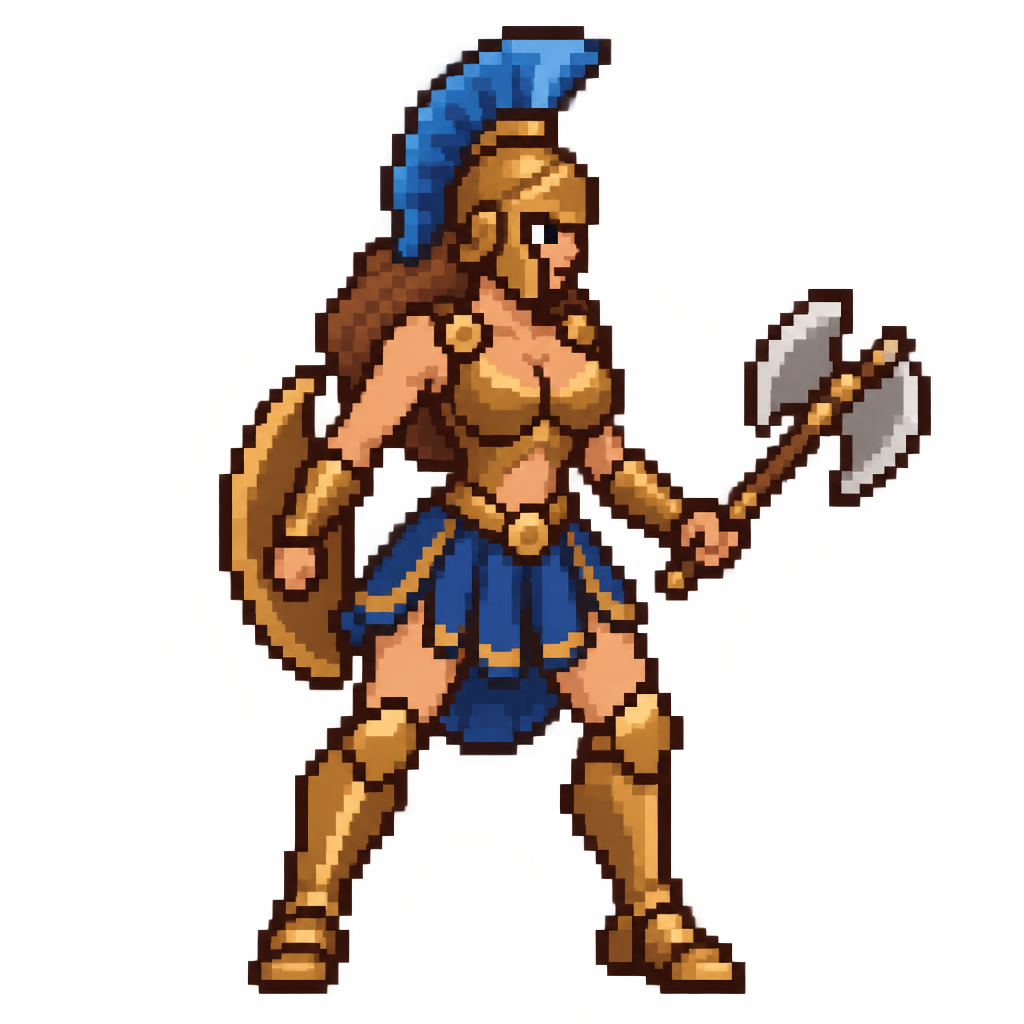
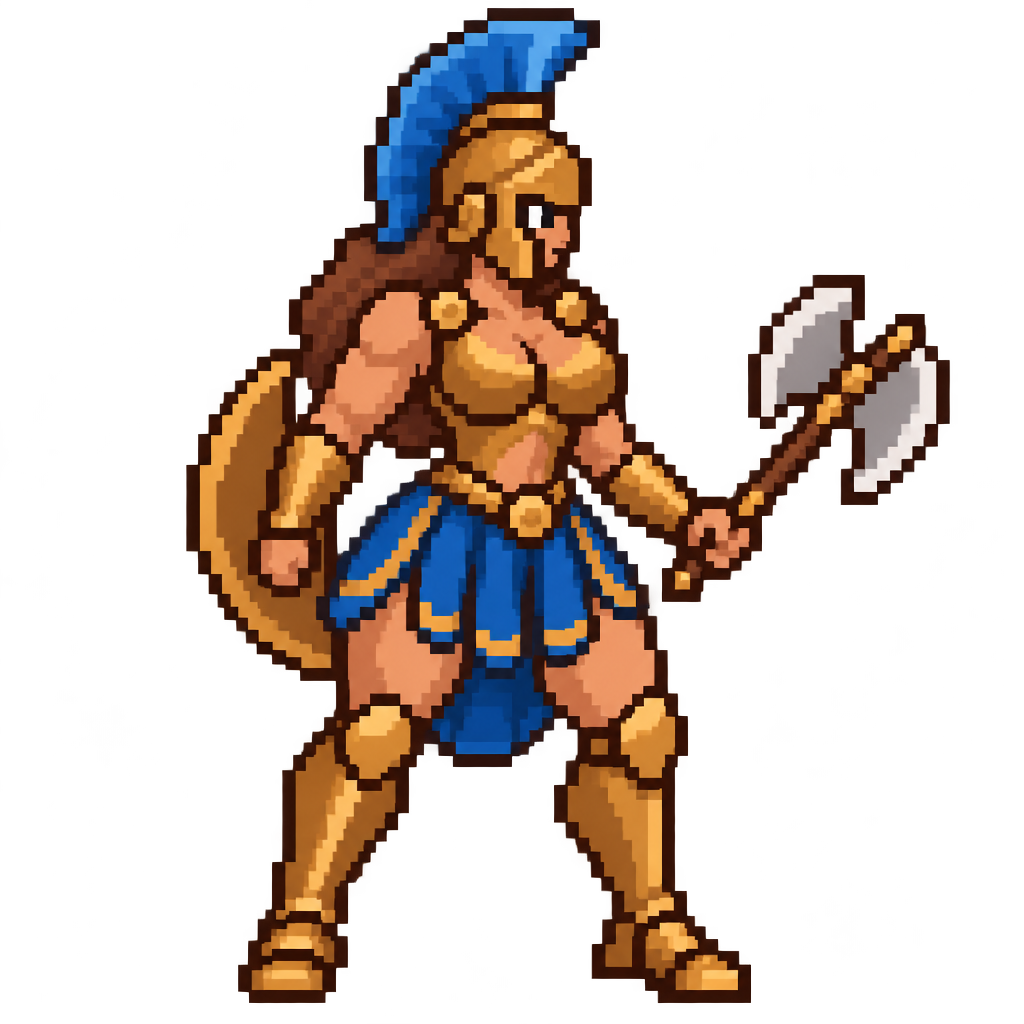
Act IV art review round 1: the Mount Olympus redo
The owner's eight Olympus notes:
- Amazon: redrawn as a tall, muscular "muscle mommy" in the figure-redesign
  style (58 art px, was 54); her bounce box sits on her hips and skirt, as the
  owner liked in her old idle strip.
- Artemis: slim-thick and muscular, the bow held far forward; the bust box
  moved off the bow onto her chest.
- Gorgon: slim-thick and a bit chubby; the bust box moved up onto the bust;
  her face painted back by hand.
- Ares: re-converted bright bronze from the same source (no new image).
- Hound of Artemis: regenerated as a side-view hunting dog.
- Bronze Titan walk: a new walk_cycle.py "stride" mode swings his near leg
  between its pose and its mirror image, a darker copy half a cycle behind as
  the far leg, so the legs alternate; the still is unchanged.
- War trophies: bronze spear heads; moon shrines: a lighter crescent.

5 API images (ledger rows), about $0.16. ART_BIBLE rows updated.

Claude-Session: https://claude.ai/code/session_01TjA5CNwUWb95gMazj5Z3qp

Changed region(s): [[0.1562, 0.0, 0.9375, 1.0]]

diff --git a/tools/walk_cycle.py b/tools/walk_cycle.py
@@ -121,10 +121,23 @@ FLAP = (0.0, 0.5, 1.0, 0.5, 0.0, 0.5, 1.0, 0.5)
 # seen edge-on foreshortens as it turns: full, shorter, almost gone, shorter): two turns
 # per cycle.
 SPIN = (1.0, 0.6, 0.3, 0.6, 1.0, 0.6, 0.3, 0.6)
+# Stride mode (owner's Act IV art review, round 1, on the Bronze Titan: "his pose isn't going to
+# work for this kind of animation; mirror his legs so it looks like he's walking"). Per frame:
+# how far the near leg has swung from its forward pose (0, the still's leg) to its backward pose
+# (1, the same leg mirrored about its hip): a cosine, back at frame 4, forward again at frame 8.
+# The far leg runs half a cycle behind, so the legs really alternate instead of closing and opening.
+STRIDE_SWING = tuple((1.0 - float(np.cos(2.0 * np.pi * f / 8))) / 2.0 for f in range(8))
+# Per frame: share of the rig's `lift` each leg is raised while it swings forward (the near leg
+# on the second step, the far leg on the first).
+STRIDE_LIFT_NEAR = (0.0, 0.0, 0.0, 0.0, 0.0, 0.5, 1.0, 0.5)
+STRIDE_LIFT_FAR = (0.0, 0.5, 1.0, 0.5, 0.0, 0.0, 0.0, 0.0)
+# The far leg is the near leg one shade darker (it is farther from the light and the camera, and
+# the mirrored pose's rim light would otherwise sit on the wrong side): palette name -> darker name.
+STRIDE_FAR_SHADE = {"bronze_light": "bronze", "bronze": "bronze_dark", "marble_light": "marble", "marble": "marble_dark"}
 
 # Rigs: how each still is cut. Columns and rows are art px in the still (x from
 # the left, y from the top; ranges are [start, end) ). Keys:
-#   mode    "legs" (two legs), "robe" (one hem layer) or "hover" (a flyer: the whole
+#   mode    "legs" (two legs), "robe" (one hem layer), "stride" (see `stride`) or "hover" (a flyer: the whole
 #           sprite bobs, HOVER_BOB, and only its `parts` move: wings flap, rotors spin).
 #   bob     px the sprite rises at the top of the bob ("hover").
 #   parts   "hover": list of moving parts, each a dict: `box` (x0, x1, y0, y1) of the still
@@ -144,6 +157,18 @@ SPIN = (1.0, 0.6, 0.3, 0.6, 1.0, 0.6, 0.3, 0.6)
 #   lift    px the swinging foot rises at passing ("legs").
 #   sway    px the hem bottom swings at most ("robe").
 #   dip     px the body dips on the "down" pose (0 or 1; 1 for every unit so far).
+#   stride  mode "stride" (a figure whose still pose cannot be sheared into a walk: the Bronze
+#           Titan): the rows from `hip` down are cut off, except the `keep` rectangles
+#           (x0, x1, y0, y1; low fists) which ride with the body; the pixels from `hip` down at
+#           columns >= `near_x0` (outside `keep`) are the near leg, the forward pose; its mirror
+#           image about its own hip (the middle of its top row) is the backward pose. Each frame
+#           blends the two by STRIDE_SWING: the nearer pose, sheared about the hip row toward
+#           the other (at most half the distance between the two feet, so the shear stays small);
+#           the far leg is the same leg darkened (STRIDE_FAR_SHADE), `far_dx` px aside, half a
+#           cycle behind and drawn behind it; the leg swinging forward is lifted STRIDE_LIFT_* *
+#           `lift` px; `reach` px pushes both poses' feet further apart (a longer stride); the
+#           body dips like the legs mode. Frame 0 is the stride, NOT the still (the
+#           still is approved as it stands; the strip plays only while the unit walks).
 #   bust    optional (x0, x1, y0, y1, px): the box of the still holding the bust (art px,
 #           [start, end) ; y0 = the neckline, y1 - 1 = the underside) and the bounce in
 #           px at its strongest point. Each frame warps that box vertically (_bounce): the
@@ -312,7 +337,10 @@ RIGS = {
     "pantheon/shade_of_dead": dict(mode="hover", bob=2, parts=[]),
     "pantheon/hoplite": dict(mode="legs", hip=42, back=(0, 17), front=(17, 30), rigid=[(2, 6, 0, None)], spread=2, lift=2, dip=1),
     "pantheon/hero": dict(mode="legs", hip=41, back=(0, 31), front=(31, 58), rigid=[(0, 17, 41, 48)], spread=2, lift=2, dip=1),
-    "pantheon/bronze_titan": dict(mode="legs", hip=66, back=(0, 35), front=(35, 72), rigid=[(0, 18, 66, 73), (52, 72, 66, 72)], spread=2, lift=3, dip=1),
+    # Owner's Act IV art review, round 1: his still's crossed legs could not walk ("mirror his
+    # legs"); the strip is a stride: the near (right) leg from row 66 swings between its own pose
+    # and its mirror image, a darker copy (the far leg) half a cycle behind, the fists ride along.
+    "pantheon/bronze_titan": dict(mode="stride", hip=66, near_x0=29, keep=[(0, 21, 44, 72), (50, 72, 44, 72)], far_dx=-4, reach=5, lift=3, dip=1),
     # --- Act IV: the Shores of Ilion ---
     # The Legionary marches behind his scutum (it ends above the hip); the Wolf of Rome lopes
     # (hind legs left, forelegs right: the bounding lope of the Bone Hound's rig); the Cyclops and
@@ -332,12 +360,21 @@ RIGS = {
     # two pairs (left and right halves); robes and tails sway (Zeus, Poseidon with his trident
     # rigid, the Gorgon, the sea serpent, the Oathbreaker's cloak).
     "pantheon/ares": dict(mode="legs", hip=70, back=(0, 45), front=(45, 70), rigid=[(70, 94, 66, None)], spread=2, lift=2, dip=1),
-    "pantheon/artemis": dict(mode="legs", hip=60, back=(0, 31), front=(31, 58), rigid=[], spread=2, lift=2, dip=1, bust=(27, 36, 18, 34, 2)),
+    # Art review round 1 redo (slim-thick, muscular; the old box sat on her bow): the bust box on
+    # her chest (cols 23-37, rows 31-39, two lobes), the bow's lower limb right of her front leg rigid.
+    "pantheon/artemis": dict(mode="legs", hip=60, back=(0, 31), front=(31, 62), rigid=[(46, 62, 0, 64)], spread=2, lift=2, dip=1, bust=(23, 38, 31, 40, 2, 2)),
     "pantheon/poseidon": dict(mode="robe", hip=75, rigid=[(52, 68, 0, None)], sway=1, dip=1),
     "pantheon/centaur_archer": dict(mode="legs", hip=41, back=(0, 26), front=(26, 54), rigid=[], spread=2, lift=2, dip=1),
-    "pantheon/amazon": dict(mode="legs", hip=40, back=(0, 25), front=(25, 50), rigid=[], spread=2, lift=2, dip=1, bust=(17, 24, 16, 31, 2)),
-    "pantheon/gorgon": dict(mode="robe", hip=36, rigid=[], sway=2, dip=1, bust=(22, 30, 18, 31, 2)),
-    "pantheon/moon_hound": dict(mode="legs", hip=16, back=(0, 14), front=(14, 28), rigid=[], spread=2, lift=2, dip=1),
+    # Art review round 1 redo ("muscle mommy"; the owner liked her idle jiggling the hips, not the
+    # bust): the bounce box sits on her hips and skirt (cols 18-37, rows 27-37, two lobes); the
+    # skirt's front flap hanging between her thighs rigid.
+    "pantheon/amazon": dict(mode="legs", hip=41, back=(0, 28), front=(28, 54), rigid=[(24, 30, 41, 44)], spread=2, lift=2, dip=1, bust=(18, 38, 27, 38, 2, 2)),
+    # Art review round 1 redo (slim-thick, a bit chubby; the old box sat too low): on her bust
+    # (cols 21-31, rows 17-21, two lobes).
+    "pantheon/gorgon": dict(mode="robe", hip=36, rigid=[], sway=2, dip=1, bust=(21, 32, 17, 22, 2, 2)),
+    # Art review round 1 redo (regenerated, side view): hind legs left, forelegs right, the chin
+    # just below the hip rigid.
+    "pantheon/moon_hound": dict(mode="legs", hip=13, back=(0, 28), front=(28, 56), rigid=[(38, 56, 13, 16)], spread=2, lift=2, dip=1),
     "pantheon/sea_serpent": dict(mode="robe", hip=40, rigid=[], sway=2, dip=1),
     "bosses/zeus": dict(mode="robe", hip=93, rigid=[(0, 24, 0, None)], sway=1, dip=1),
     "bosses/zeus_colossus": dict(mode="legs", hip=141, back=(0, 82), front=(82, 164), rigid=[], spread=2, lift=3, dip=1),
@@ -680,10 +717,123 @@ def hover_frames(key: str, still: np.ndarray, rig: dict) -> list:
     return out
 
 
+def _shear_leg(layer: np.ndarray, top: int, shift: float, lift: int) -> np.ndarray:
+    """Stride leg `layer` (rows from `top` down) sheared sideways by round(shift * t) per row, t = 0
+    at `top` to 1 at its lowest opaque row, then raised `lift` rows."""
+    h, w = layer.shape[:2]
+    rows = np.nonzero(layer[:, :, 3].any(axis=1))[0]
+    out = np.zeros_like(layer)
+    if rows.size == 0:
+        return out
+    bottom = max(int(rows.max()), top + 1)  # Foot row.
+    for y in rows:
+        t = (y - top) / float(bottom - top)  # 0 at the hip, 1 at the foot.
+        dx = int(np.floor(shift * t + 0.5)) if shift >= 0 else -int(np.floor(-shift * t + 0.5))  # Sideways px.
+        yy = y - lift  # Destination row.
+        if not 0 <= yy < h:
+            continue
+        if dx > 0:
+            out[yy, dx:] = layer[y, :w - dx]
+        elif dx < 0:
+            out[yy, :w + dx] = layer[y, -dx:]
+        else:
+            out[yy] = layer[y]
+    return out
+
+
+def stride_frames(key: str, still: np.ndarray, rig: dict) -> list:
+    """The FRAMES frames of a "stride" rig (RIGS key list): the body, the near leg swinging between
+    its forward pose and its mirror image, and the far leg (darker) half a cycle behind it."""
+    h, w = still.shape[:2]
+    hip = rig["hip"]
+    keep = np.zeros((h, w), dtype=bool)  # Pixels below the hip that ride with the body (fists).
+    for x0, x1, y0, y1 in rig.get("keep", []):
+        keep[y0:y1, x0:x1] = True
+    lower = np.zeros((h, w), dtype=bool)
+    lower[hip:] = True
+    body = still.copy()
+    body[lower & ~keep] = 0
+    fwd_m = lower & ~keep & (np.arange(w) >= rig["near_x0"])[None, :] & (still[:, :, 3] > 0)
+    fwd_m = _largest_blob(fwd_m)  # Only the leg itself (bits of the other leg's heel left out).
+    fwd = np.zeros_like(still)  # Forward pose: the still's near leg.
+    fwd[fwd_m] = still[fwd_m]
+    top_cols = np.nonzero(fwd[hip, :, 3])[0]
+    pivot = int(top_cols.min() + top_cols.max())  # Column sum of the mirror (its axis = the hip's middle).
+    back = np.zeros_like(still)  # Backward pose: the leg mirrored about its hip.
+    for x in range(w):
+        if 0 <= pivot - x < w:
+            back[:, pivot - x] = fwd[:, x]
+    rows = np.nonzero(fwd[:, :, 3].any(axis=1))[0]
+    foot = fwd[rows.max() - 3:rows.max() + 1, :, 3].any(axis=0).nonzero()[0]  # The foot's columns.
+    amp = float(foot.min() + foot.max()) - pivot  # Px between the two poses' feet (forward - backward).
+
+    def pose(q: float) -> np.ndarray:
+        """The leg swung `q` (0 forward .. 1 backward) of the way: the nearer pose, sheared."""
+        r = rig.get("reach", 0)  # Extra px each pose's foot is pushed out (a longer stride).
+        span = amp + 2 * r  # Px between the two pushed-out feet.
+        return (_shear_leg(fwd, hip, r - q * span, 0) if q <= 0.5
+                else _shear_leg(back, hip, -r + (1.0 - q) * span, 0))
+
+    names = dict(zip(STRIDE_FAR_SHADE, _palette_rgb(list(STRIDE_FAR_SHADE))))  # Lighter name -> RGB.
+    dark = dict(zip(STRIDE_FAR_SHADE, _palette_rgb(list(STRIDE_FAR_SHADE.values()))))  # Lighter name -> darker RGB.
+    out = []
+    for f in range(FRAMES):
+        q = STRIDE_SWING[f]  # Near leg's swing (0 forward, 1 backward); the far leg's is 1 - q.
+        dy = DIP[f % POSES] * rig.get("dip", 1)
+        near = _lift(pose(q), int(round(STRIDE_LIFT_NEAR[f] * rig["lift"])), hip)
+        far = _lift(pose(1.0 - q), int(round(STRIDE_LIFT_FAR[f] * rig["lift"])), hip)
+        far = np.roll(far, rig.get("far_dx", 0), axis=1)
+        src = far.copy()
+        for n, rgb in names.items():
+            m = (src[:, :, :3] == np.array(rgb, dtype=np.uint8)).all(-1) & (src[:, :, 3] > 0)
+            far[m, :3] = dark[n]
+        out.append(_stack([far, near, _move(body, dy)]))
+    return out
+
+
+def _largest_blob(mask: np.ndarray) -> np.ndarray:
+    """The largest 8-connected region of the boolean `mask` (flood fill)."""
+    seen = np.zeros_like(mask)
+    best = np.zeros_like(mask)
+    h, w = mask.shape
+    for y0, x0 in zip(*np.nonzero(mask)):
+        if seen[y0, x0]:
+            continue
+        blob = np.zeros_like(mask)
+        stack = [(y0, x0)]
+        seen[y0, x0] = True
+        while stack:
+            y, x = stack.pop()
+            blob[y, x] = True
+            for dy in (-1, 0, 1):
+                for dx in (-1, 0, 1):
+                    yy, xx = y + dy, x + dx
+                    if 0 <= yy < h and 0 <= xx < w and mask[yy, xx] and not seen[yy, xx]:
+                        seen[yy, xx] = True
+                        stack.append((yy, xx))
+        if blob.sum() > best.sum():
+            best = blob
+    return best
+
+
+def _lift(layer: np.ndarray, n: int, top: int) -> np.ndarray:
+    """`layer` raised `n` rows; rows pushed above row `top` (the hip) are dropped, so nothing of
+    the leg shows through the gaps between the body's kilt and fists."""
+    if n <= 0:
+        return layer
+    out = np.zeros_like(layer)
+    out[:-n] = layer[n:]
+    out[:top] = 0
+    return out
+
+
 def frames_of(key: str) -> list:
-    """The FRAMES walk frames of `key` (RGBA arrays the still's size); frame 0 is the still."""
+    """The FRAMES walk frames of `key` (RGBA arrays the still's size); frame 0 is the still
+    (except a "stride" rig's, whose frame 0 is the mirrored stance)."""
     still = load(key)
     rig = RIGS[key]
+    if rig["mode"] == "stride":
+        return stride_frames(key, still, rig)
     if rig["mode"] == "hover":
         out = hover_frames(key, still, rig)
         if not np.array_equal(out[0], still):
@@ -750,7 +900,7 @@ def build(key: str) -> Path:
     strip = np.concatenate(frames, axis=1)
     dest = SPRITE_DIR / (key + SUFFIX + ".png")
     Image.fromarray(strip, "RGBA").save(dest, optimize=True)
-    still = frames[0]
+    still = load(key)  # The approved still (a stride strip's frame 0 is not it).
     new_cols = {tuple(c) for f in frames for c in f[f[:, :, 3] > 0].tolist()} - {tuple(c) for c in still[still[:, :, 3] > 0].tolist()}
     if new_cols:
         sys.exit(f"{key}: frames hold colours the still does not ({len(new_cols)})")
@@ -877,7 +1027,7 @@ def build_idle(key: str) -> Path:
     frames = idle_frames_of(key)
     strip = np.concatenate(frames, axis=1)
     dest = SPRITE_DIR / (key + IDLE_SUFFIX + ".png")
-    still = frames[0]
+    still = load(key)  # The approved still (a stride strip's frame 0 is not it).
     new_cols = {tuple(c) for f in frames for c in f[f[:, :, 3] > 0].tolist()} - {tuple(c) for c in still[still[:, :, 3] > 0].tolist()}
     if new_cols:
         sys.exit(f"{key}: idle frames hold colours the still does not ({len(new_cols)})")

diff --git a/tools/olympus_props.py b/tools/olympus_props.py
@@ -230,8 +230,18 @@ def war_trophy(r):
     cx = w / 2.0
     base_y = h - 2 - ry
     ellipse(px, w, h, cx, base_y, r - 1, ry, P["brown"])  # The cairn of earth at its foot.
-    line(px, w, h, cx - r + 2, base_y - tall * 0.8, cx + r - 2, base_y - 2, P["brown_light"])  # Crossed spears.
-    line(px, w, h, cx + r - 2, base_y - tall * 0.8, cx - r + 2, base_y - 2, P["brown_light"])
+    reach = r - 5  # Half the spread of the shafts' upper ends (px): room for the heads inside the canvas.
+    line(px, w, h, cx - reach, base_y - tall * 0.8, cx + r - 2, base_y - 2, P["brown_light"])  # Crossed spears.
+    line(px, w, h, cx + reach, base_y - tall * 0.8, cx - r + 2, base_y - 2, P["brown_light"])
+    for sx in (-1, 1):  # A bronze leaf head on each spear's upper end (owner's art review, round 1).
+        ax, ay = cx - sx * (r - 2), base_y - 2  # Butt.
+        bx, by = cx + sx * reach, base_y - tall * 0.8  # Upper end of the shaft.
+        ln = math.hypot(bx - ax, by - ay)
+        ux, uy = (bx - ax) / ln, (by - ay) / ln  # Unit vector along the shaft, upward.
+        head = max(4, round(r * 0.35))  # Head length (px).
+        line(px, w, h, bx + ux, by + uy, bx + ux * (head - 1), by + uy * (head - 1), P["bronze"], 1)  # The leaf.
+        line(px, w, h, bx + ux, by + uy, bx + ux * (head - 1), by + uy * (head - 1), P["bronze_light"])  # Its lit spine.
+        line(px, w, h, bx + ux * head, by + uy * head, bx + ux * (head + 1), by + uy * (head + 1), P["bronze_light"])  # The point.
     rect(px, w, h, cx - 1, base_y - tall, cx, base_y, P["brown"])  # The post.
     sr = max(4, round(r * 0.75))
     sy = base_y - tall * 0.45
@@ -285,7 +295,9 @@ def moon_shrine(r):
     rect(px, w, h, cx - pr, top + pr * 2, cx + pr - 1, base_y - 2, P["marble"])
     rect(px, w, h, cx - pr, top + pr * 2, cx - pr, base_y - 2, P["marble_light"])
     cr = max(3, round(r * 0.45))  # The crescent.
-    ellipse(px, w, h, cx, top + cr, cr, cr, P["marble_light"])
+    # The crescent a shade lighter than the marble (owner's art review, round 1): the palette's
+    # palest silver, so it no longer reads as the same stone as the pillar under it.
+    ellipse(px, w, h, cx, top + cr, cr, cr, P["ice_light"])
     ellipse(px, w, h, cx + cr * 0.45, top + cr - 1, cr * 0.8, cr * 0.8, (0, 0, 0, 0))
     ellipse(px, w, h, cx, top + cr * 2 + 1, 1, 1, P["aegean_light"])
     outline(img, P["bronze_ink"])

diff --git a/docs/art/ART_BIBLE.md b/docs/art/ART_BIBLE.md
@@ -438,6 +438,15 @@ pixels of its `colors` (a bone rotor lifted off the flame behind it); lone pixel
 box are dropped. Pixels are only moved, never recoloured. Used by the Scout Drone (bob only), the
 Grave Drone (wingbeat) and the Wraith Drone (three spinning rotors).
 
+**Stride rigs (Act IV art review, round 1).** The Bronze Titan's still stands with crossed legs, which the legs mode
+can only close and open ("mirror his legs so it looks like he's walking"). A rig with `mode="stride"` cuts the legs
+off at `hip` (low fists in `keep` ride with the body), takes the near leg (the largest blob right of `near_x0`) as
+the forward pose and its mirror image about its own hip as the backward pose, swings it between the two on a cosine
+(`STRIDE_SWING`, each frame the nearer pose sheared at most half the way, so the shear stays small), and draws a
+one-shade-darker copy (`STRIDE_FAR_SHADE`) half a cycle behind it as the far leg (`far_dx` px aside); the leg swinging
+forward lifts (`STRIDE_LIFT_*`). Only colours of the still; frame 0 is the stride, not the still (the approved still
+stays as it is and shows when he stands).
+
 **Bust bounce (figure redesign, Oct 2026; owner request).** A rig may carry `bust = (x0, x1, y0, y1,
 px)`: the box holding the bust (y0 the neckline, y1 - 1 the underside) and the bounce in art px. Each
 frame warps that box vertically (`_bounce()`): the neckline stays, the underside moves `BUST_BOUNCE`
@@ -1941,7 +1950,7 @@ warning). **For the owner's review.**
 | `pantheon/shade_of_dead` | Shade of the Dead (fodder, male): a pale ghost in a marble-grey burial shroud pulled up as a hood, a dark face opening with two pale Aegean eyes, both arms reaching forward, no legs: the shroud tapers into a curling wisp tail | 40x36 | hover (`_walk`: the whole ghost bobs 2 px; the still keeps two empty rows on top, body 34) |
 | `pantheon/hoplite` | Hoplite (soldier, male): bronze Corinthian helmet with a tall Aegean crest, the face in its opening, bronze cuirass over a marble linen tunic, a big round bronze aspis held forward (Aegean boss), an upright spear | 30x56 | legs walk (`_walk`, hip 42; the spear rigid). Body ~50 under the spear head |
 | `pantheon/hero` | Hero (elite, male demigod, Hector-like): a gold open-faced helmet with a tall white plume, face and arms in skin, a gold cuirass, bronze greaves, a billowing Aegean-blue cloak, a bronze sword held forward | 58x58 | legs walk (`_walk`, hip 41; the cloak's low hem rigid). Grander than the hoplite: the gold is the hero's (Glory) |
-| `pantheon/bronze_titan` | Bronze Titan (the Reckoning's heavy, male colossus): a walking bronze statue, huge shoulders and low fists, a small crested head with glowing Aegean eyes, Aegean cracks of light on the chest, a marble kilt and marble plinth chunks on his shins and feet | 72x96 | legs walk (`_walk`, hip 66; the low fists ride with the body), lift 3. Stepping out of the ground is drawn by code |
+| `pantheon/bronze_titan` | Bronze Titan (the Reckoning's heavy, male colossus): a walking bronze statue, huge shoulders and low fists, a small crested head with glowing Aegean eyes, Aegean cracks of light on the chest, a marble kilt and marble plinth chunks on his shins and feet | 72x96 | **stride** walk (art review round 1, "mirror his legs": `walk_cycle.py` mode `stride`, hip 66: his near leg swings between its own pose and its mirror image, a one-shade-darker copy half a cycle behind as the far leg, so the legs alternate; the low fists ride with the body); the still is unchanged, so the strip's frame 0 is the stride, not the still. Stepping out of the ground is drawn by code |
 
 Code-drawn on purpose (phase 1): the wrath telegraphs and strikes, the phalanx's locked shield line, the Glory aura
 and the stubs' placeholder floors and obstacles (`PantheonGlyphs`, `PantheonGround`); phase 2 brings the stages' own
@@ -2020,23 +2029,32 @@ review.**
 
 | Key | What it is | Art px | Notes |
 |---|---|---|---|
-| `pantheon/ares` | Ares, God of War (god, male): crested bronze Corinthian helmet with gold crest and eye slits, bronze armour, iron-grey cloak, a long spear held low for the charge, a round shield | 94x96 | legs walk (the spear tip rigid) |
-| `pantheon/artemis` | Artemis, the Huntress (goddess, female, figure redesign): ponytail, silver crescent circlet, short white chiton with a gold belt, laced sandals, drawing a tall silver bow | 58x92 | legs walk + bust (rows 27-36), idle breathing |
+| `pantheon/ares` | Ares, God of War (god, male): crested bronze Corinthian helmet with gold crest and eye slits, bronze armour, iron-grey cloak, a long spear held low for the charge, a round shield | 94x96 | legs walk (the spear tip rigid). Round 1 redo ("too dark, muddy, not bronze"): re-converted from the same source, no new image: warm pixels brightened (HSV value ^0.6), no skin pre-snap (it had caught the dark cuirass), `--ramps bronze,gold,grey,skin` with levels (no `brown`, which had made the armour mud), the cloak moved one shade down (grey_light -> grey, grey -> grey_dark); now mostly bronze / bronze_light |
+| `pantheon/artemis` | Artemis, the Huntress (goddess, female, figure redesign, slim-thick and muscular since round 1): ponytail, silver crescent circlet, short white chiton with a gold belt, laced sandals, drawing a tall silver bow held far forward | 62x92 | legs walk (the bow's lower limb rigid) + bust (cols 23-37, rows 31-39, two lobes; round 1: the old box sat on her bow), idle breathing. Round 1 redo: new image (old source as reference), skin pre-snapped by hue (skin below hue 0.08, value >= 0.6; lit -> `skin`, shade -> `brown_light`, the muscle shading), `--no-levels --no-prune --ramps marble,skin,brown,gold`, the quiver's bone fletching -> marble_light |
 | `pantheon/poseidon` | Poseidon, Lord of the Sea (god, male): sea-green hair and beard, gold crown, Aegean and sea-green robe, a gold trident | 68x100 | robe walk (the trident rigid) |
 | `bosses/zeus` (+ `_cast`) | Zeus, King of the Gods: white hair and beard, gold laurel crown, glowing blue eyes, white toga with gold belt and hem, a thunderbolt at his side; `_cast` the bolt raised above his head (BossPoseData 1) | 88x124 / 100x128 | robe walk (the bolt rigid) |
 | `bosses/zeus_colossus` | Zeus's true form: a marble giant veined with blue lightning, a cloud beard, gold crown and bands, lightning around one fist | 164x176 | legs walk |
 | `pantheon/centaur_archer` | Centaur Archer (male): bronze cuirass and crested helmet, a bow drawn forward, a brown horse body mid-gallop | 54x60 | legs walk (front and back leg pairs) |
-| `pantheon/amazon` | Amazon (female, figure redesign): Aegean-crested bronze helmet over long hair, bronze breastplate, Aegean war skirt, a double axe and a crescent shield | 50x54 | legs walk + bust (rows 17-24), idle breathing |
-| `pantheon/gorgon` | Gorgon (female, figure redesign): living snakes for hair, pale green skin, gold eyes, white chiton with gold, a coiled serpent tail | 40x54 | robe (tail) sway + bust (rows 22-30), idle breathing |
-| `pantheon/moon_hound` | Hound of Artemis: a lean silver greyhound with pale-blue eyes and a crescent collar | 28x30 | legs walk |
+| `pantheon/amazon` | Amazon (female, figure redesign, a tall "muscle mommy" since round 1: broad shoulders, big arms, abs, thick thighs): Aegean-crested bronze helmet over long hair, bronze breastplate, Aegean war skirt, a double axe and a crescent shield | 54x58 | legs walk (the skirt's front flap rigid) + a **hip** bounce box (cols 18-37, rows 27-37, two lobes: the owner liked her old idle jiggling the hips, kept on purpose), idle breathing. Round 1 redo: new image, 58 tall (was 54), skin pre-snapped by hue (below 0.068, sat 0.4-0.8: her tan skin sat next to the bronze and converted to it), `--no-levels --no-prune --ramps bronze,marble,aegean,skin,brown,gold` |
+| `pantheon/gorgon` | Gorgon (female, figure redesign, slim-thick and a bit chubby since round 1: round tummy, soft arms, very wide hips): living snakes for hair, pale green skin, gold eyes, white chiton with gold, a coiled serpent tail | 42x54 | robe (tail) sway + bust (cols 21-31, rows 17-21, two lobes; round 1: the old box sat too low), idle breathing. Round 1 redo: two new images (the first came back slim; the second asked for chubby with the first as reference), `--no-levels --ramps moss,marble,gold`; her face painted by hand (a moss face, two gold_light eyes, a mouth pixel: the conversion lost it in the snakes) |
+| `pantheon/moon_hound` | Hound of Artemis: a lean silver greyhound / saluki seen from the side, a long muzzle, folded ears, an Aegean collar | 56x30 | legs walk (hind legs left, forelegs right, the chin rigid). Round 1 redo ("looks strange"): a new image in side view (the Wolf of Rome's source as the pixel reference), `--no-levels --no-prune --ramps marble,grey,aegean`, the eye (aegean_light) painted by hand |
 | `pantheon/sea_serpent` | Sea Serpent: Aegean scales, a pale belly, a finned head, reared over its coil | 46x64 | robe sway |
 | `player/oathbreaker` | The Oathbreaker (male, a fallen demigod): cracked bronze laurel, violet hooded cloak over tarnished bronze, a staff with a stolen thunderbolt bound in violet cords | 52x58 | robe walk |
 | `player/oathbreaker_hyper` / `_untouchable` / `_deathlord` | Gilded Oathbreaker (gold armour and laurel, sun emblem), Untouchable (white phantom with pale-blue trims), Deathlord (black iron and crimson, spiked crown) | 58 / 58 / 60 | walk through `SKINS` |
 | `tiles/olympus_field`, `_grove`, `_terrace`, `_summit` | The four zone floors: trampled earth and dry grass; moss and cypress needles; marble courses; square marble slabs with dark gold joints | 128 | `make_tile.py` (`# --- Act IV: Mount Olympus ---`); the decals stay code-drawn |
-| `obstacles/war_trophy_{s,m,l}`, `cypress_{s,m,l}`, `moon_shrine_{s,l}`, `fountain_{s,l}`, `broken_column_{s,m,l}`, `bronze_brazier_{s,l}` | A trophy post with a shield, crossed spears and a crested helmet; a dark cypress; a marble shrine with a silver crescent; a marble fountain basin; a broken fluted column; a bronze brazier with fire | footprint + 2 wide | circles, `tools/olympus_props.py` |
+| `obstacles/war_trophy_{s,m,l}` (round 1: bronze leaf heads on the crossed spears), `cypress_{s,m,l}`, `moon_shrine_{s,l}` (round 1: the crescent a shade lighter, `ice_light`), `fountain_{s,l}`, `broken_column_{s,m,l}`, `bronze_brazier_{s,l}` | A trophy post with a shield, crossed spears and a crested helmet; a dark cypress; a marble shrine with a silver crescent; a marble fountain basin; a broken fluted column; a bronze brazier with fire | footprint + 2 wide | circles, `tools/olympus_props.py` |
 | `obstacles/chariot_wreck_{s,l}`, `balustrade_{s,m,l}`, `marble_block_{s,m,l}` (+ `_v`) | A bronze war chariot on its side with a broken wheel; a marble terrace balustrade; a fallen marble block with a gold band and a crack | long side + 4 x short; `_v` short + 2 wide | rects, `tools/olympus_props.py` |
 | `icons/stolen_thunder`, `titans_blood`, `grounded_bones` | Violet badges: a bolt in a violet hand; a violet drop of blood with a spark; a ribcage under a lightning rod | 32 | symbol sheet split, each pixelated to 24 px on the frame of `machine_soul` |
 | `icons/gigantomachy`, `ach_twilight_of_the_gods` | Gold badges: a titan's fist among bolts; a cracked laurel over a setting sun | 32 | on the frame of `ach_nothing_is_deathless` |
+
+**Art review, round 1 redo (Oct 2026).** The owner's eight Olympus notes (GDD §15.0 "Act IV art review, round 1"):
+the Amazon, Artemis and the Gorgon redrawn in the figure-redesign style with the requested builds and their bounce
+boxes checked against the new pixels (the Amazon's on her hips, as the owner liked; Artemis's and the Gorgon's on the
+bust), Ares re-converted bright (no new image), the Hound of Artemis regenerated, the Bronze Titan's walk rebuilt as a
+stride (`walk_cycle.py` mode `stride`, under the Act IV foundation table), spear heads on the war trophies and a lighter
+moon on the shrines (`tools/olympus_props.py`). 5 API images, about $0.16 (ledger). `art_check.py`: the Amazon,
+Artemis and the hound pass every floor; Ares fails only Sanctum IV (+0.13), the Gorgon the March roads and the
+Sanctum floors (as before; she only stands on Olympus).
 
 Code-drawn on purpose: the lightning storms' circles (the wrath's), the thunderbolt beam and its lanes, the
 trident in flight, the war-cry ring, the volley's aim fan, the gaze cone, the leap arc and landing circle, the
